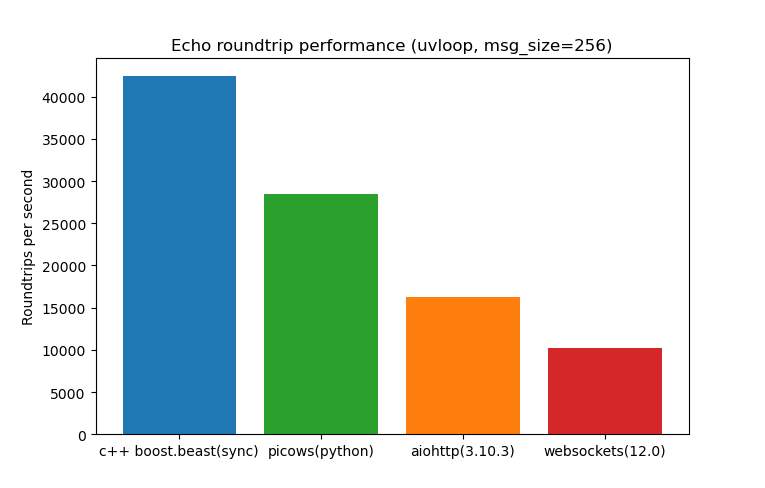
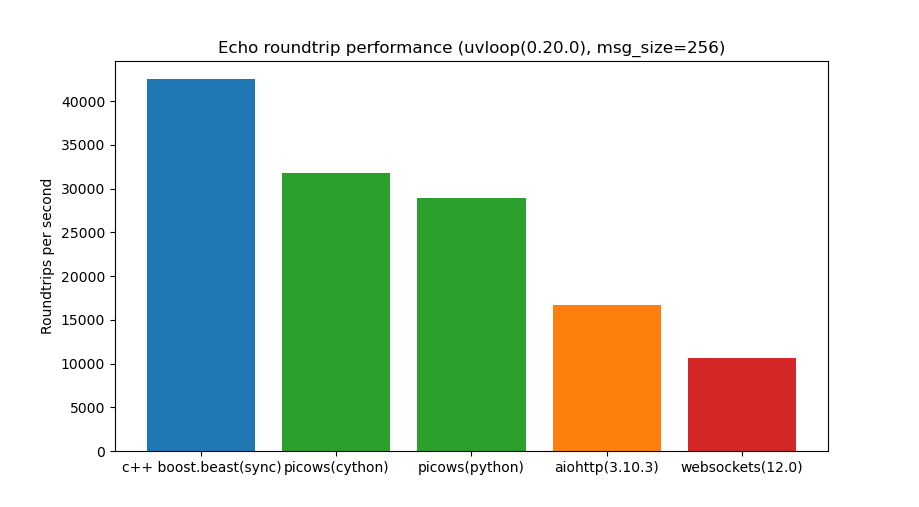
Simplify interfaces, update benchmark

diff --git a/tests/test_echo.py b/tests/test_echo.py
@@ -67,7 +67,7 @@ async def echo_server(request):
                 self._transport.send_close(frame.get_close_code(), frame.get_close_message())
                 self._transport.disconnect()
 
-    server = await picows.ws_create_server(request.param, PicowsServerListener, "server",
+    server = await picows.ws_create_server(request.param, PicowsServerListener,
                                            ssl_context=create_server_ssl_context(),
                                            websocket_handshake_timeout=0.5)
     task = asyncio.create_task(server.serve_forever())
@@ -103,7 +103,7 @@ async def echo_client(echo_server):
             async with async_timeout.timeout(1):
                 return await self.msg_queue.get()
 
-    (_, client) = await picows.ws_connect(echo_server, PicowsClientListener, "client",
+    (_, client) = await picows.ws_connect(echo_server, PicowsClientListener,
                                           ssl=create_client_ssl_context(),
                                           websocket_handshake_timeout=0.5)
     yield client
@@ -146,13 +146,13 @@ async def test_close(echo_client):
 async def test_client_handshake_timeout(echo_server):
     # Set unreasonably small timeout
     with pytest.raises(TimeoutError):
-        (_, client) = await picows.ws_connect(echo_server, picows.WSListener, "client",
+        (_, client) = await picows.ws_connect(echo_server, picows.WSListener,
                                               ssl=create_client_ssl_context(),
                                               websocket_handshake_timeout=0.00001)
 
 
 async def test_server_handshake_timeout():
-    server = await picows.ws_create_server(URL, picows.WSListener, "server", websocket_handshake_timeout=0.1)
+    server = await picows.ws_create_server(URL, picows.WSListener, websocket_handshake_timeout=0.1)
     server_task = asyncio.create_task(server.serve_forever())
 
     try:

diff --git a/examples/echo_client_benchmark.py b/examples/echo_client_benchmark.py
@@ -63,7 +63,7 @@ async def picows_main(endpoint: str, msg: bytes, duration: int, ssl_context):
             else:
                 self._transport.send(WSMsgType.BINARY, msg)
 
-    (_, client) = await ws_connect(endpoint, PicowsClientListener, "client", ssl=ssl_context)
+    (_, client) = await ws_connect(endpoint, PicowsClientListener, ssl=ssl_context)
     await client._transport.wait_until_closed()
 
 
@@ -133,13 +133,14 @@ if __name__ == '__main__':
         if os.name != 'nt':
             import uvloop
             asyncio.set_event_loop_policy(uvloop.EventLoopPolicy())
-            loop_name = "uvloop"
+            loop_name = f"uvloop({uvloop.__version__})"
 
     ssl_context = create_client_ssl_context() if args.url.startswith("wss://") else None
 
     try:
-        from examples.picows_client_cython import picows_main_cython
-        asyncio.run(picows_main_cython(args.url, msg, duration, ssl_context))
+        from examples.echo_client_cython import picows_main_cython
+        picows_cython_rps = asyncio.run(picows_main_cython(args.url, msg, duration, ssl_context))
+        RPS["picows(cython)"] = picows_cython_rps
     except ImportError:
         pass
 
@@ -157,7 +158,7 @@ if __name__ == '__main__':
 
         libraries = list(RPS.keys())
         counts = list(RPS.values())
-        bar_colors = ['tab:blue', 'tab:green', 'tab:orange', 'tab:red']
+        bar_colors = ['tab:blue', 'tab:green', 'tab:green', 'tab:orange', 'tab:red']
 
         ax.bar(libraries, counts, label=libraries, color=bar_colors)
 

diff --git a/examples/echo_server.py b/examples/echo_server.py
@@ -24,7 +24,7 @@ async def async_main():
     url = "ws://127.0.0.1:9001"
     url_ssl = "wss://127.0.0.1:9002"
 
-    plain_server = await ws_create_server(url, PicowsServerListener, "server",
+    plain_server = await ws_create_server(url, PicowsServerListener,
                                           websocket_handshake_timeout=0.5)
     _logger.info("Server started on %s", url)
 
@@ -34,7 +34,7 @@ async def async_main():
     ssl_context.check_hostname = False
     ssl_context.hostname_checks_common_name = False
     ssl_context.verify_mode = ssl.CERT_NONE
-    ssl_server = await ws_create_server(url_ssl, PicowsServerListener, "server",
+    ssl_server = await ws_create_server(url_ssl, PicowsServerListener,
                                         ssl_context=ssl_context,
                                         websocket_handshake_timeout=0.5)
     _logger.info("Server started on %s", url_ssl)

diff --git a/setup.py b/setup.py
@@ -17,7 +17,7 @@ cython_modules = [
     ]
 
 if os.getenv("PICOWS_BUILD_EXAMPLES") is not None:
-    cython_modules.append(Extension("examples.picows_client_cython", ["examples/picows_client_cython.pyx"]))
+    cython_modules.append(Extension("examples.echo_client_cython", ["examples/echo_client_cython.pyx"]))
 
 setup(
     ext_modules=cythonize(

diff --git a/README.rst b/README.rst
@@ -74,7 +74,7 @@ Connects to an echo server, sends a message and disconnect upon reply.
 
 
   async def main(endpoint):
-    (_, client) = await ws_connect(endpoint, ClientListener, "client")
+    (_, client) = await ws_connect(endpoint, ClientListener)
     await client.transport.wait_until_closed()
 
 
@@ -108,7 +108,7 @@ Echo server
 
   async def main():
       url = "ws://127.0.0.1:9001"
-      server = await ws_create_server(url, ServerClientListener, "server")
+      server = await ws_create_server(url, ServerClientListener)
       print(f"Server started on {url}")
       await server.serve_forever()
 
